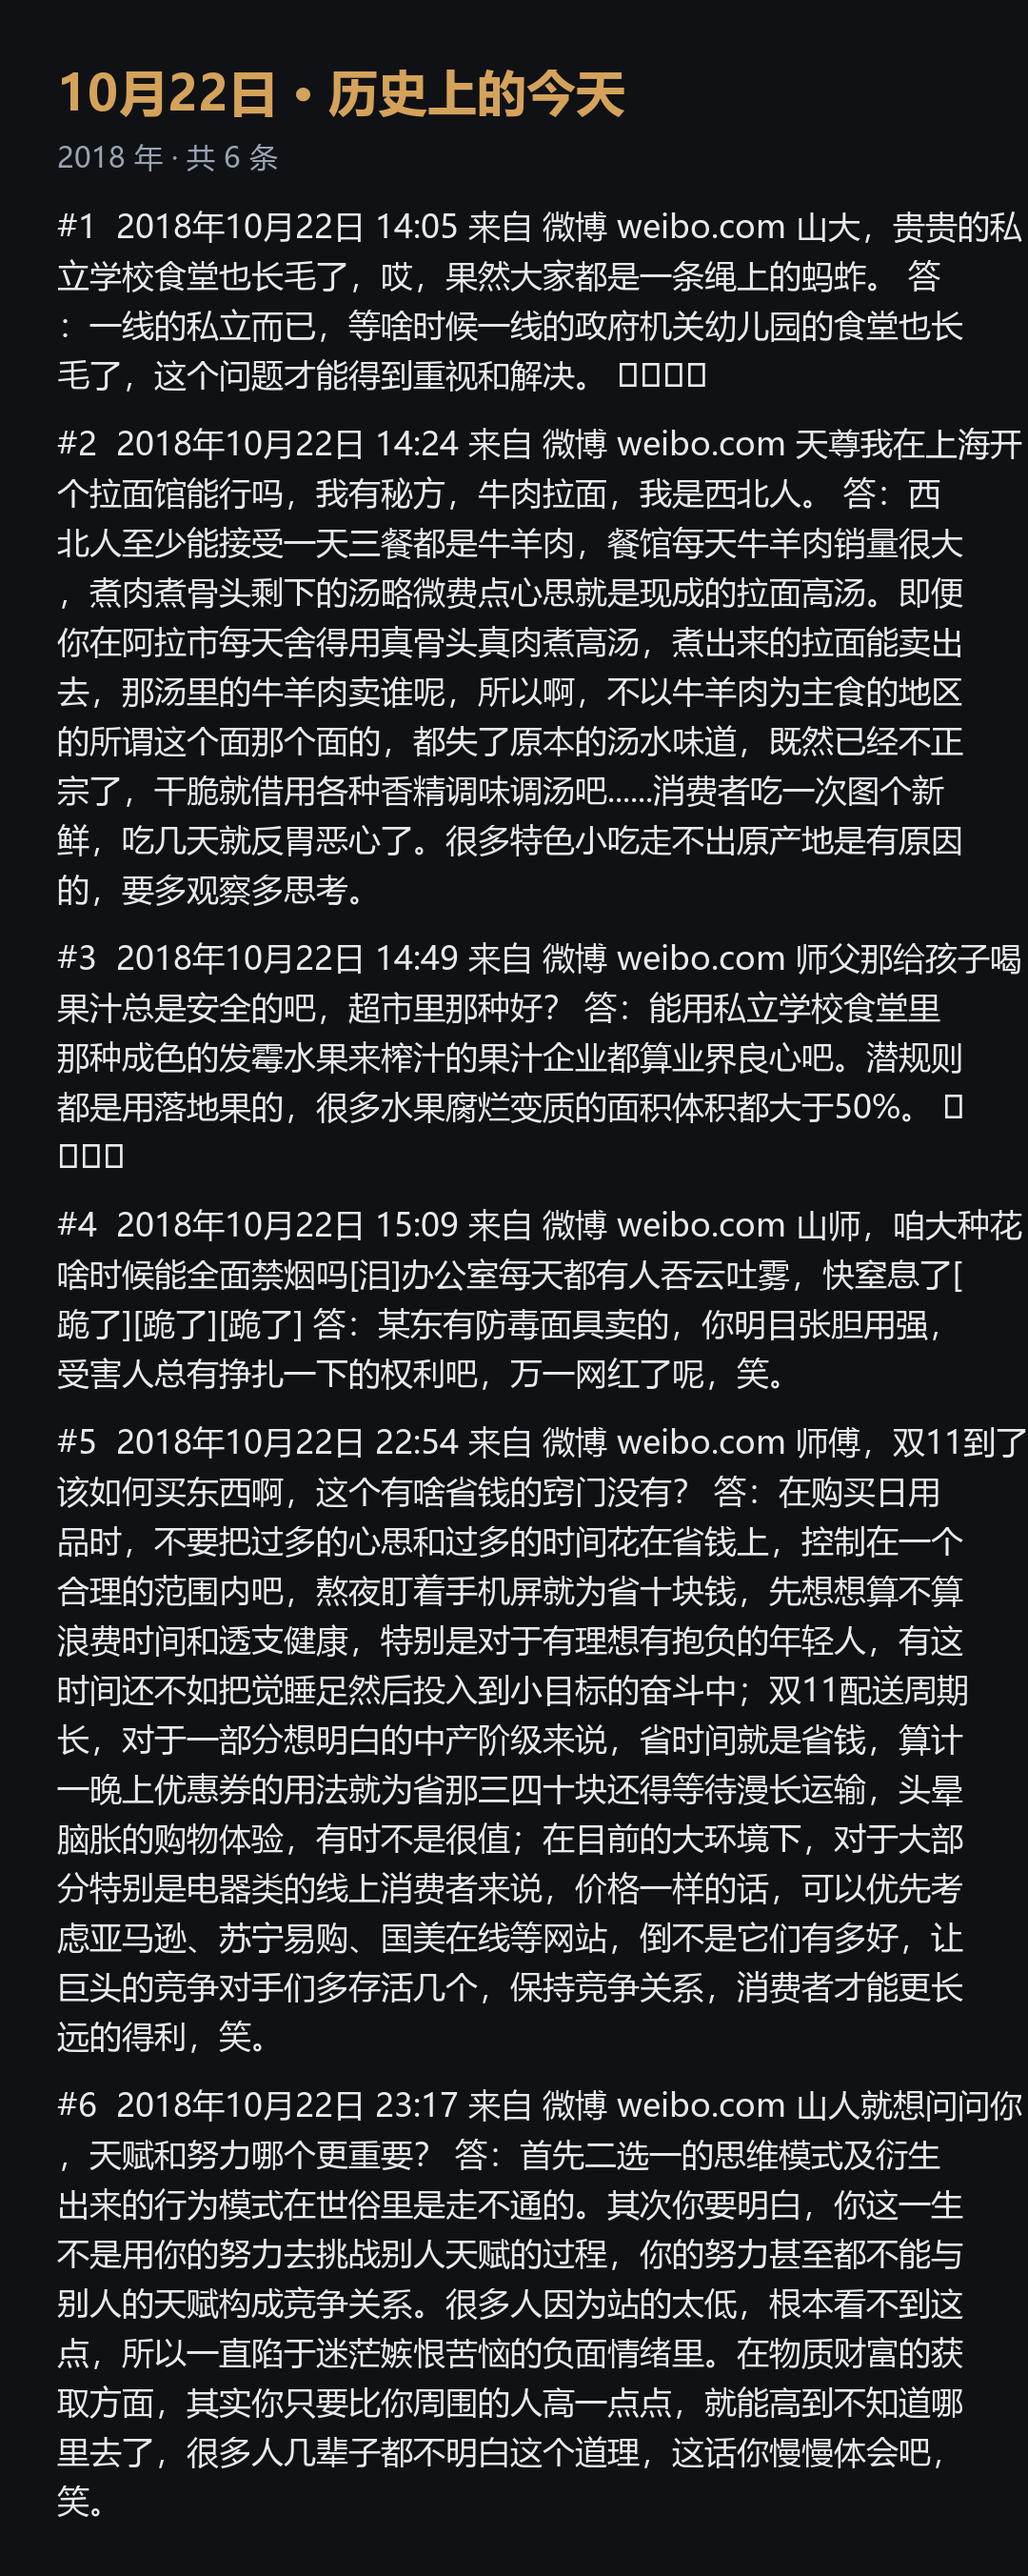
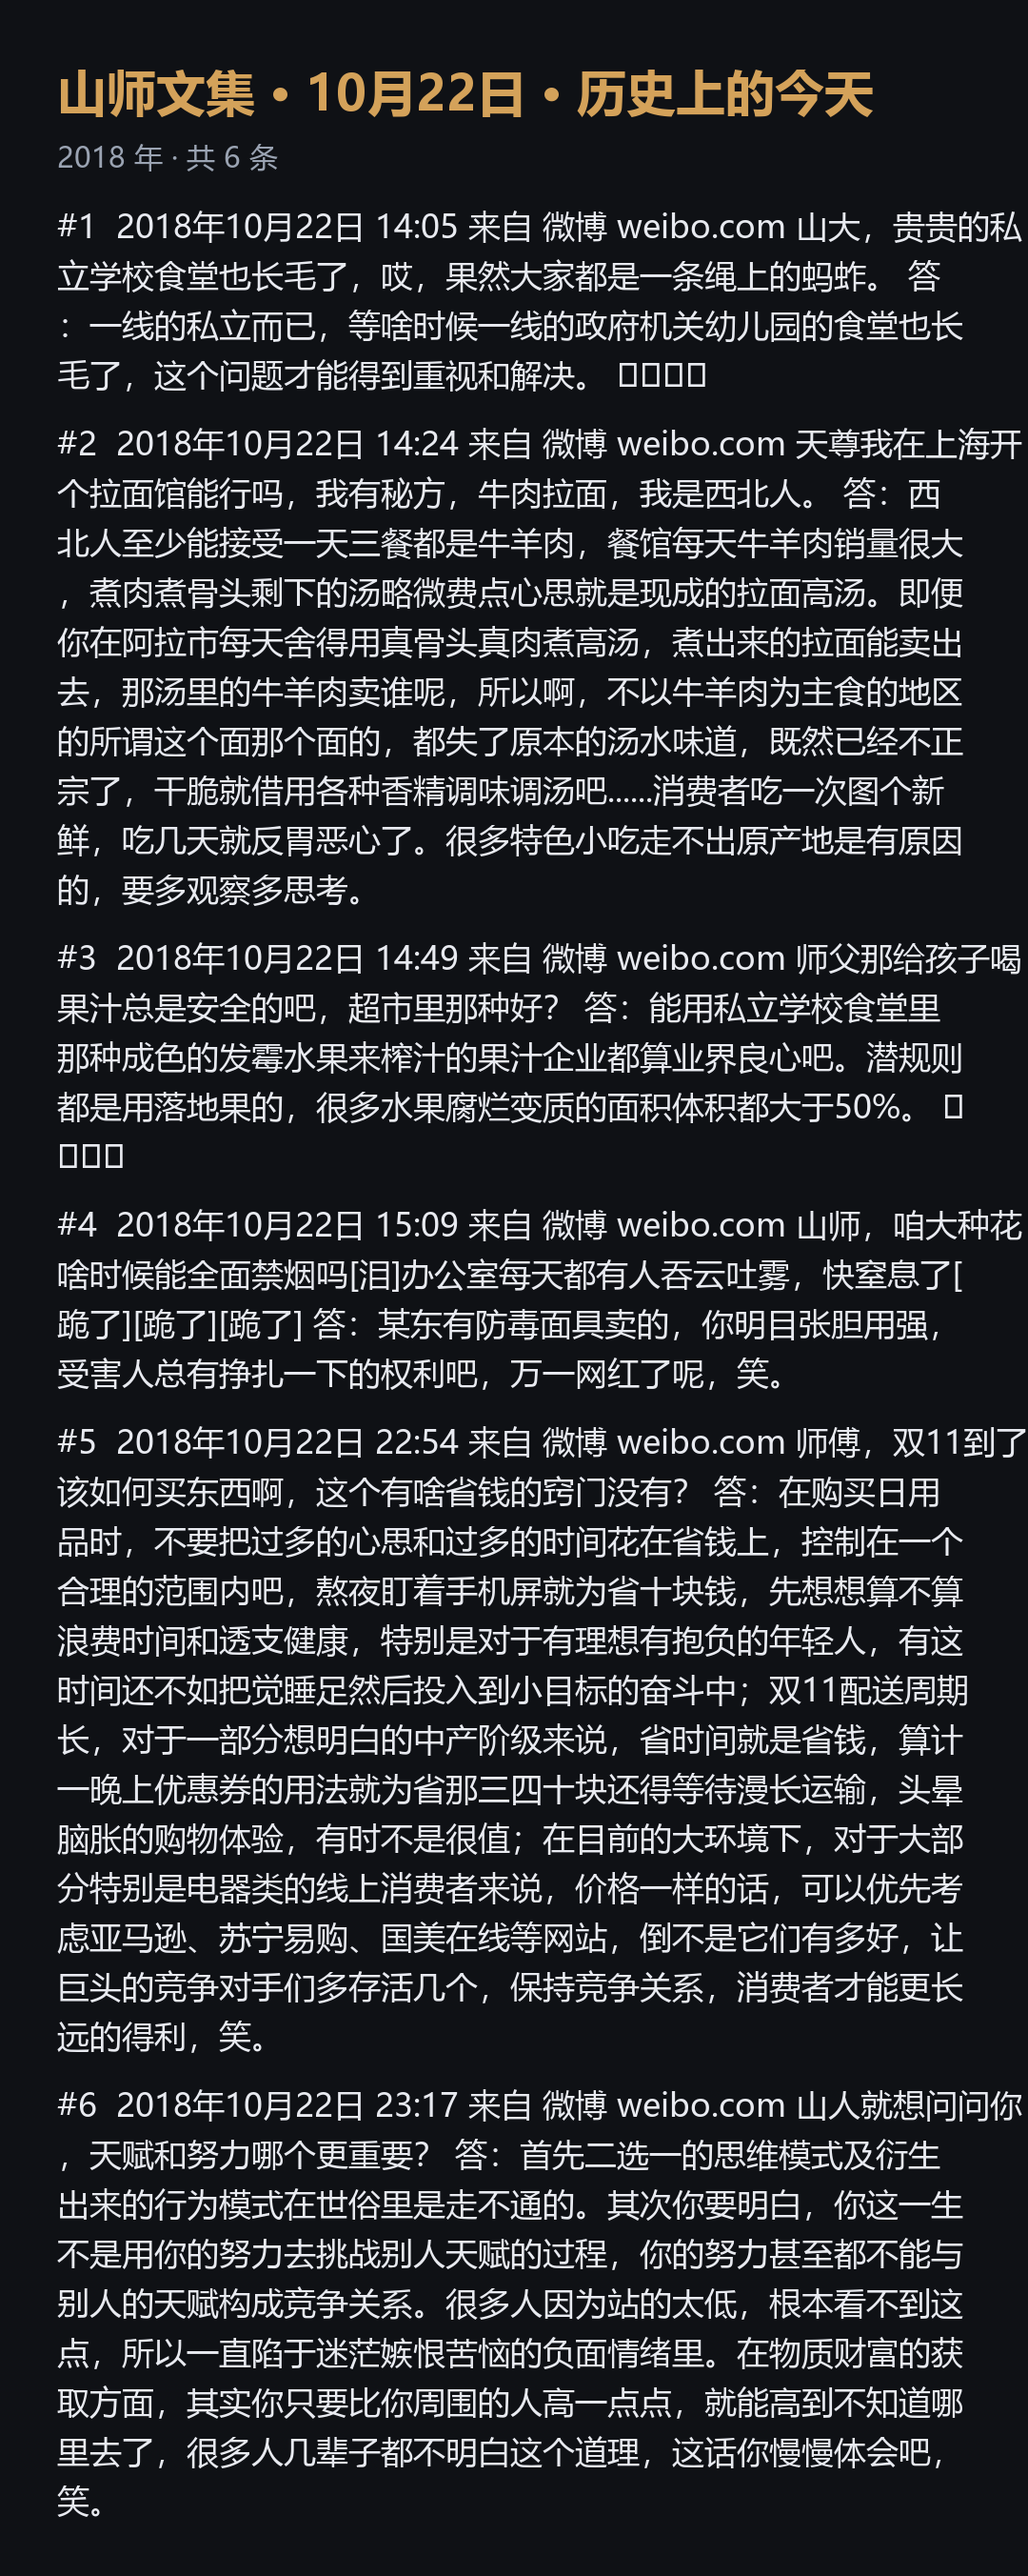
品牌名改为山师文集

Changed region(s): [[0.3056, 0.0311, 0.8556, 0.0621], [0.0611, 0.0311, 0.275, 0.0621]]

diff --git a/index.html b/index.html
@@ -3,7 +3,7 @@
 <head>
 <meta charset="UTF-8">
 <meta name="viewport" content="width=device-width, initial-scale=1.0, viewport-fit=cover">
-<title>山人拾遗 · 历史上的今天</title>
+<title>山师文集 · 历史上的今天</title>
 <meta name="description" content="每日文集归档，按年月日浏览历年今日内容">
 <style>
   :root {
@@ -131,7 +131,7 @@
 <body>
 <div class="wrap">
   <header class="top">
-    <div class="brand">山人拾遗<span class="dot">·</span><small>历史上的今天</small></div>
+    <div class="brand">山师文集<span class="dot">·</span><small>历史上的今天</small></div>
     <div class="today-meta" id="headerToday"></div>
   </header>
 

diff --git a/push_daily.py b/push_daily.py
@@ -48,7 +48,7 @@ def main():
 
     m, d = md.split("-")
     desp = (
-        f"> 🌟 **《山人拾遗》{int(m)}月{int(d)}日 · 历史上的今天**\n"
+        f"> 🌟 **《山师文集》{int(m)}月{int(d)}日 · 历史上的今天**\n"
         f"---\n"
         f"历年今日共 **{count}** 条内容，覆盖 **{years_n}** 个年份。\n\n"
         f"👉 [文字版在线阅读（免翻墙）]({GH}/archive/{md}.md)\n\n"
@@ -58,7 +58,7 @@ def main():
 
     payload = urllib.parse.urlencode({
         "pushkey": pushkey,
-        "text": f"山人拾遗 {int(m)}月{int(d)}日",
+        "text": f"山师文集 {int(m)}月{int(d)}日",
         "desp": desp,
         "type": "markdown",
     }).encode("utf-8")

diff --git a/build_daily.py b/build_daily.py
@@ -64,7 +64,7 @@ def build_markdown(md, data):
     os.makedirs(ARCHIVE_DIR, exist_ok=True)
     m, d = md.split("-")
     title = f"{int(m)}月{int(d)}日"
-    lines = [f"# {title} · 历史上的今天", ""]
+    lines = [f"# 山师文集 · {title} · 历史上的今天", ""]
     total = 0
     for g in data:
         lines.append(f"## {g['year']} 年")
@@ -158,7 +158,7 @@ def build_images(md, data):
     """单年一图 + 合并总览图"""
     os.makedirs(IMG_DIR, exist_ok=True)
     m, d = md.split("-")
-    md_title = f"{int(m)}月{int(d)}日 · 历史上的今天"
+    md_title = f"山师文集 · {int(m)}月{int(d)}日 · 历史上的今天"
 
     outputs = []
 

diff --git a/.workbuddy/memory/2026-10-22.md b/.workbuddy/memory/2026-10-22.md
@@ -1,0 +1,22 @@
+# 2026-10-22 工作日志
+
+## 山人拾遗（shanwenji）每日文集归档系统
+
+- 用户需求：把 `shanshi_cleaned.xlsx`（17798 条 山人微博文集，Date+Content 两列，2011-08-14 ~ 2024-09-10，覆盖全部 366 个月日）做成「历史上的今天」每日归档系统。
+- 新建 GitHub 仓库 `deanling2011/shanwenji`（public）。
+
+### 架构
+- 数据：按「月-日」拆分 366 个 `data/MM-DD.json` + `index.json`，按年份分组，组内保持原序（即时间序）。
+- 网页：`index.html` 纯静态，深色主题，日历导航 + 今日卡片 + 点日期查看历年文集。托管 GitHub Pages（https://deanling2011.github.io/shanwenji/）。
+- 每日自动化：GitHub Actions `daily.yml`，cron `10 0 * * *`（北京时间 08:10），build_daily.py 生成 archive/MM-DD.md + img/MM-DD-YYYY.png（分年图）+ img/MM-DD.png（总览），再 push_daily.py 推 PushDeer，最后 git commit 归档。
+- 图片生成：Pillow，Windows 用 msyh.ttc，Linux(CI) 用 Noto CJK，脚本自动映射。
+
+### 关键决策
+- CDN：jsDelivr 已退化为 301 重定向到 raw（不再缓存），改用 **ghproxy**（https://ghproxy.net/https://raw.githubusercontent.com/...）。用户确认图片+文字都用 ghproxy。
+- 文字版底部去掉"数据来源"等尾注（用户要求）。
+- 推送：PushDeer markdown 卡片，pushkey 存 GitHub secret `PUSHDEER_KEY`（值：PDU39735...）。
+- 文件命名固定为 MM-DD（如 10-22.png），避免"内容不是当天"的历史问题。
+
+### 待办/注意
+- GitHub token（fine-grained）需逐步授权：Administration(建仓)、Contents:write(推送)、Pages:write(启用 Pages)、Secrets(配 secret)。
+- 本机 git push 需绕过代理：`GIT_SSL_NO_VERIFY=1 git -c http.proxy= -c https.proxy= push`。

diff --git a/README.md b/README.md
@@ -1,4 +1,4 @@
-# 山人拾遗 · shanwenji
+# 山师文集 · shanwenji
 
 每日自动归档「历史上的今天」文集：同一天（月-日）历年内容聚合展示，支持文字版网页浏览与图片版推送。
 

diff --git a/archive/10-22.md b/archive/10-22.md
@@ -1,4 +1,4 @@
-# 10月22日 · 历史上的今天
+# 山师文集 · 10月22日 · 历史上的今天
 
 ## 2018 年
 
